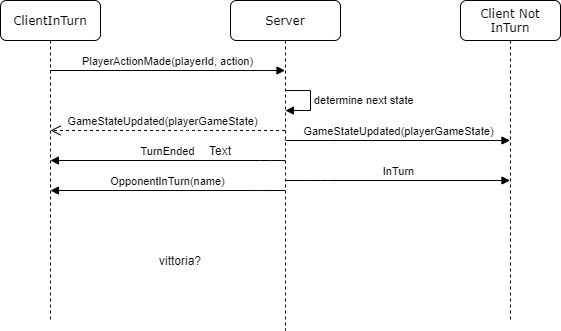
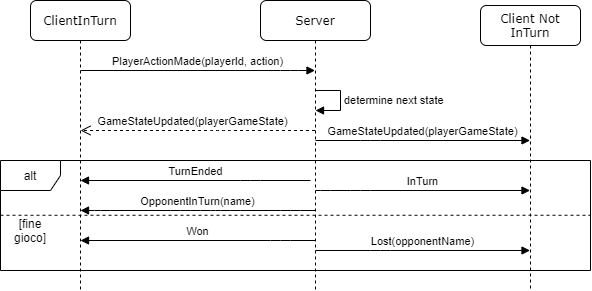
relation update

diff --git a/source/doc/design-di-dettaglio.tex b/source/doc/design-di-dettaglio.tex
@@ -19,7 +19,7 @@ Il core modella al suo interno tutte le entità del gioco Machiavelli reale, com
 Le entità di gioco sono:
 \begin{itemize}
     \item la card, corredata da tre case class: un rank (valore nominale), un seme e un colore.
-    All’interno del Rank si sono definiti tutti i possibili valori che una carta può assumere (da 1 a 13). Inoltre è stato modellato anche il caso del rank asso come 14-esimo valore, chiamato \textit{overflowAce}, per poterne effettuare la validazione qualora si trovasse dopo il Re (13-esimo valore) in una combinazione.
+    All’interno del Rank si sono definiti tutti i possibili valori che una carta può assumere (da 1 a 13). Inoltre è stato modellato anche il caso del rank asso come 14-esimo valore, chiamato \textit{overflowAce}, per poterne effettuare la validazione qualora si trovasse dopo il Re (13-esimo valore) in una combinazione. 
     All’interno della case class Suit sono stati definiti i quattro semi disponibili (Cuori, Picche, Quadri e Fiori) mentre nel Color abbiamo modellato il colore rosso e blu. Le cards e le relative case class sono contenute nel package \textit{core.cards};
     \item il Player composto da un username (necessario per essere memorizzato nel server), un id e  una mano di gioco. Tale entità è contenuta nel package \textit{core.player}.
 \end{itemize}
@@ -42,12 +42,12 @@ All’interno del package \textit{core.collections} abbiamo modellato le entità
     \item Board, è costituita da una sequenza di CardCombination valide. A livello di gioco rappresenta il tavolo nella quale sono contenute le combinazioni. Le funzioni definite sono:
     \begin{itemize}
         \item \textit{putCombination}: permette di aggiungere una combinazione valida alla Board;
-        \item \textit{pickCards}: permette di prendere delle Cards dalla Board;
+        \item \textit{pickCards}: permette di prendere delle Cards dalla Board; 
         \item \textit{putCards}: permette di aggiungere una Card alla Board;
         \item \textit{cardsInBoard}: verifica se è presente almeno una combinazione nella Board.
     \end{itemize}
 \end{itemize}
-
+\newpage
 \subsubsection{Prolog}
 Per la gestione delle regole di validazione, si è deciso di utilizzare questo linguaggio poichè è possibile esprimerle in maniera totalmente dichiarativa ed efficiente. La libreria utilizzata è TuProlog.
 \newline
@@ -146,7 +146,7 @@ Ciascun controller setta nella view il proprio Stage e istanzia la classe Servic
 \end{center}
 Come si può notare dallo schema, il controller, per notificare eventi alla view, avendo creato il relativo \textit{Stage}, richiama i metodi che questo espone.
 \newline
-Allo stesso tempo, in creazione passa anche \textit{onViewEvent()}, una funzione che viene invocata dalla view ogni qualvolta debba notificare un evento al controller.
+Allo stesso tempo, in creazione passa anche \textit{onViewEvent()}, una funzione che viene invocata dalla view ogni qualvolta debba notificare un evento al controller. 
 Questa funzione prende in input un oggetto di tipo case class/object che estende la sealed class \textit{ViewEvent}.\newline
 Questa scelta di utilizzare da una parte l’interfaccia e dall’altra un metodo a callback è dovuta al fatto che logicamente, la view può notificare al controller qualsiasi tipo di evento, e sarà il controller a decidere quale di questi gestire; al contrario la view espone solamente le funzionalità che espone nella propria interfaccia.
 \newline \newline
@@ -191,7 +191,7 @@ Ciascuna scena che estende \textit{BaseStartupFormScene} si compone di 3 parti:
 \begin{center}
     \includegraphics[scale=0.3]{create_join_lobby}
 \end{center}
-
+\newpage
 \paragraph{Game}
 \begin{center}
     \includegraphics[scale=0.4]{game}
@@ -217,7 +217,7 @@ Ciascun Pane è stato pensato in modo da racchiudere poche funzionalità simili 
     \end{itemize}
 \end{itemize}
 Ciascun \textit{Pane}, sul quale è possibile abilitare o disabilitare le azioni quando non è il turno del giocatore, estende il trait \textit{ActionGamePane}.
-\newline
+\newline 
 \begin{center}
     \includegraphics[scale=0.2]{gameViewArchitecture}
 \end{center}
@@ -241,11 +241,12 @@ Anche in questo caso, quando l’utente compie un'azione, viene generato un even
 \newline \newline Oltre a fare da collante tra Service e View, a \textit{GameController} è lasciata la responsabilità della gestione del timer durante il turno del giocatore. \newline Questo timer, per scelta a livello di design è stato lasciato solamente lato client, ed è implementato sfruttando le librerie Timer e TimerTask di java.utils. \newline \newline Espone tramite interfaccia i metodi \textit{start()} e \textit{stop()}, con i quali si avviano i due task che vengono eseguiti per ciascun turno. \newline Il primo task, chiamato tickTask, ha un periodo di 1000ms e permette di notificare un evento ogni secondo. Il secondo invece, chiamato endTask ha il compito di far scattare un evento allo scadere del tempo definito all’interno del file Constants.\newline Quando un utente inizia il proprio turno, il timer viene avviato, mentre sia quando scade, sia quando un utente passa prima del termine del turno, viene stoppato, azione con la quale si fa la \textit{cancel()} di entrambi i task e la \textit{purge()} del timer. \newline \newline
 Al timer vengono passati in costruzione la durata prevista e un listener che contiene le callback che vengono triggerate dai vari task. Tra queste c’è la \textit{onStart()}, che viene chiamata all’avvio del timer, la \textit{onEnd()}, che viene chiamata allo scadere di endTask, e la onTick() che viene invece chiamata a ogni passaggio di tickTask. \newline \newline Il controller ha anche il compito di decidere se al passaggio di turno, l’utente dovrà pescare o passare semplicemente. Per farlo si affida all’ultimo aggiornamento di stato ricevuto, facendone una copia di volta in volta, e controlla se in questo l’utente doveva pescare oppure no.
 \subsubsection{Model}
-La parte di model del client è rappresentata dai trait StartupService e GameService con tutte le strutture a loro collegate. Rappresentano il punto in cui risiede tutta la business logic del client. Sono entrambi delle interfacce che espongono tutte le funzionalità rese disponibili dall’applicazione, su cui in controller si appoggiano per eseguire tutte le operazioni risultanti dalle azioni utente effettuate attraverso l’interazione con la view. \newline Permettono quindi di astrarre ai componenti utilizzatori le modalità con cui le varie azioni vengono risolte, ad esempio decidere se risolverle in locale o in remote contattando il server.
+La parte di model del client è rappresentata dai trait StartupService e GameService con tutte le strutture a loro collegate. Rappresentano il punto in cui risiede tutta la business logic del client. Sono entrambi delle interfacce che espongono tutte le funzionalità rese disponibili dall’applicazione, su cui in controller si appoggiano per eseguire tutte le operazioni risultanti dalle azioni utente effettuate attraverso l’interazione con la view. \newline Permettono quindi di astrarre ai componenti utilizzatori le modalità con cui le varie azioni vengono risolte, ad esempio decidere se risolverle in locale o in remote contattando il server. 
 È solamente in questa parte del codice client che sono presenti riferimenti al framework akka. A differenza del server, il client non è stato modellato totalmente ad attori: questi sono stati utilizzati solo per la parte di comunicazione con il server tramite scambio di messaggi.
+\newpage
 \paragraph{StartupService}
 \begin{center}
-    \includegraphics[scale=0.5]{server-startup-service}
+    \includegraphics[scale=0.5]{startup-service}
 \end{center}
 È il componente che si occupa della gestione della lobby.
 La sua funzione primaria, essendo la lobby gestita totalmente lato server, è quella di comunicare con quest’ultimo. \newline La connessione al server viene fatta tramite tramite il metodo \textit{actorSelection} messo a disposizione dall’unica istanza dell’oggetto \textit{ActorSystem} presente nell’object \textit{ActorSystemManager}, in caso di connessione avvenuta, si ottiene il riferimento all’attore remoto \textit{serverLobbyRef} responsabile per la gestione delle lobby, che viene utilizzato per l’invio dei successivi messaggi di richiesta di aggiunta alla lobby. \newline
@@ -254,7 +255,7 @@ La decisione di comunicare con il server su due vie separate è stata fatta per 
 I risultati delle varie operazioni vengono poi notificati al controller attraverso la funzione \textit{notifyEvent} richiesta in costruzione, a cui viene passato un oggetto di tipo \textit{GameStartupEvent}.\newline Il risultato della fase di lobby è l’oggetto \textit{GameMatchInformations}, che racchiude tutte le informazioni necessarie a poter avviare la partita lato client, come l'id del giocatore e la reference all'attore remoto del server.
 \paragraph{GameService}
 \begin{center}
-    \includegraphics[scale=0.5]{server-game-service}
+    \includegraphics[scale=0.5]{game-service}
 \end{center}
 È il componente che si occupa di gestire lato client tutta la fase di gioco.
 Come il componente descritto in precedenza per la fase di lobby, anche questo consiste in un’interfaccia che espone tutti i metodi corrispondenti alle funzionalità rese disponibili dal client di gioco.\newline La sua implementazione \textit{GameServiceImpl} è poi caratterizzata da diversi elementi, ciascuno dei quali gestisce una componente specifica del gioco.\newline Il riferimento all’attore server remoto \textit{serverActorRef} utilizzato per inviare messaggi al server. \textit{ClientGameActorRef}, il riferimento all’attore locale, responsabile di ricevere i messaggi inviati dal server, con una struttura analoga a quella descritta precedentemente per la lobby.
@@ -299,7 +300,7 @@ Per fare ciò mantiene una Lobby in corrispondenza di ogni LobbyType, che rappre
 \paragraph{Modellazione delle lobby private}
 La lobby privata presenta la caratteristica di una normale lobby di avere associato un valore corrispondente al numero di giocatori tale da poter essere estratti per formare un partita.Oltre a questo, ha un codice univoco per poterla identificare univocamente tra le tante.
 PrivateLobbyService supporta la creazione di lobby private, generando un id univoco ogni volta che ne viene richiesta una nuova.
-
+\newpage
 \paragraph{Interazione con il client}
 \begin{center}
     \includegraphics[width=\textwidth]{server-diagramma-attivita-lobby}
@@ -337,7 +338,7 @@ Una volta creato dall’attore lobby, l’attore responsabile della gestione del
     \item rimane in attesa del loro messaggio di conferma Ready, contenente oltre all’id del giocatore il riferimento all’attore a cui inviare i successivi messaggi;
     \item ricevuti tutti i messaggi di conferma la partita viene inizializzata, viene generato lo stato iniziale ed inviato ai vari giocatori.Inoltre viene inviata una notifica al giocatore del turno corrente.
 \end{itemize}
-
+\newpage
 \paragraph{Comunicazione durante il turno di gioco}
 \begin{center}
     \includegraphics[width=\textwidth]{server-sequence-diagram-turno}

diff --git a/source/doc/retrospettiva.tex b/source/doc/retrospettiva.tex
@@ -61,10 +61,12 @@ Al di fuori di essi, principalmente si è pensato a:
 \end{itemize}
 
 \subsection{Commenti finali}
-Ci siamo trovati bene a lavorare con la metodologia Agile imparata a lezione in questo corso.Avere degli obiettivi precisi da portare a termine in poco tempo proporzionati alle forze del team ha aiutato a ridurre drasticamente il classico stress dovuto all’approssimarsi delle scadenze. \newline \newline Anche l’uso di Trello ha contribuito, rendendo più veloce la comunicazione all’interno del team in termini di reporting delle issues e dei job per ogni membro.\newline \newline Il nome Part-Time-Team dato al gruppo non è stato a caso, il motivo per cui l’abbiamo scelto è che 3 componenti su 4 del gruppo sono lavoratori part-time che hanno anche richiesto l’estensione del piano di studi. Non sempre siamo riusciti a dedicare lo stesso lasso di tempo durante la giornata al progetto, quindi l’uso degli strumenti sopra citati è stato più essenziale che opzionale, permettendoci di lavorare in modo indipendente gli uni dagli altri. \newline \newline La tecnologia più ostica per tutto il gruppo è stato il Prolog, dato che ha richiesto di cambiare totalmente il modo di affrontare il problema. Alcune volte, si è pensato ad usare solamente il linguaggio Scala per lo svolgimento di tutte le funzionalità sviluppate invece di Prolog, credendo di risparmiare tempo prezioso. Nonostante le difficoltà, abbiamo comunque pensato che non fosse il caso di rinunciare a tutto il lavoro già svolto.
+Ci siamo trovati bene a lavorare con la metodologia Agile imparata a lezione in questo corso. Avere degli obiettivi precisi da portare a termine in poco tempo proporzionati alle forze del team ha aiutato a ridurre drasticamente il classico stress dovuto all’approssimarsi delle scadenze. \newline \newline Anche l’uso di Trello ha contribuito, rendendo più veloce la comunicazione all’interno del team in termini di reporting delle issues e dei job per ogni membro.\newline \newline Il nome Part-Time-Team dato al gruppo non è stato a caso, il motivo per cui l’abbiamo scelto è che 3 componenti su 4 del gruppo sono lavoratori part-time che hanno anche richiesto l’estensione del piano di studi. Non sempre siamo riusciti a dedicare lo stesso lasso di tempo durante la giornata al progetto, quindi l’uso degli strumenti sopra citati è stato più essenziale che opzionale, permettendoci di lavorare in modo indipendente gli uni dagli altri. \newline \newline La tecnologia più ostica per tutto il gruppo è stato il Prolog, dato che ha richiesto di cambiare totalmente il modo di affrontare il problema. Alcune volte, si è pensato ad usare solamente il linguaggio Scala per lo svolgimento di tutte le funzionalità sviluppate invece di Prolog, credendo di risparmiare tempo prezioso. Nonostante le difficoltà, abbiamo comunque pensato che non fosse il caso di rinunciare a tutto il lavoro già svolto. 
 \paragraph{Daniele}
 Penso che partecipare a questo progetto sia stata una bellissima esperienza, sia per l’opportunità di lavorare con tecnologie che non conoscevo, sia per l’aver collaborato con dei bravissimi compagni. Penso che se una persona non conoscesse l’esistenza di queste tecnologie (prima fra tutti la CI) non le andrebbe a cercare tanto, non si sveglierebbe alla mattina pensando di inventare un sistema simile, ma una volta venutone a conoscenza, non ne potrebbe più fare a meno, proprio come è successo a me.
 \paragraph{Lorenzo}
 Partecipare a questo progetto mi ha aiutato ad approciarmi con tecnologie che fin'ora non conoscevo e soprattutto mi ha permesso di acquisire nuove abilità sull'approcio funzionale e sulla programmazione in generale. Non avendo fatto ancora un'esperienza lavorativa, partecipare a questo progetto mi ha fatto capire, seppur in minima parte, cosa significa lavorare in un team.\newline Penso di aver raggiunto l'obiettivo finale di questo corso, anche grazie all'aiuto dei membri del team. Inoltre l'esperienza mi ha permesso di conoscere nuovi amici. Li ringrazio della fiducia iniziale che mi hanno dato.
 \paragraph{Matteo}
+La realizzazione del progetto e in generale il corso di PPS è stata un'esperienza molto positiva, mi ha permesso di approfondire aspetti della programmazione funzionale e soprattuto del testing che ho poi avuto modo di applicare anche al lavoro.  
+Sicuramente il margine di miglioramento è ancora molto ampio visti i molteplici concetti toccati in un lasso di tempo così limitato, ma gli spunti sono tanti e piano piano cercherò di approfondirli al meglio uno ad uno, partendo dal libro "Clean Code" già pronto sulla mensola.
 \paragraph{Luca}

diff --git a/source/doc/implementazione.tex b/source/doc/implementazione.tex
@@ -16,7 +16,7 @@ Ho cercato anche di mantenermi il più possibile aderente allo stile di programm
 Anche nelle classi realizzate ho cercato di seguire quando possibile il modello funzionale, prediligendo l’immutabilità, tranne in quei casi in cui a fronte di un’attenta analisi, ho optato per la creazione di strutture non totalmente funzionali con uso di side effect, come nei casi di classi caratterizzate dal fatto di mantenere uno stato locale aggiornato secondo delle funzioni esposte all’esterno, come il caso di LobbyManager lato server o GameStateStore sul client.
 
 \subsection{Luca}
-Per questo progetto ho assunto il ruolo di Committente, ruolo per il quale ho in primis cercato le regole e analizzato assieme a tutti gli altri elementi del gruppo le funzionalità che la nostra applicazione avrebbe dovuto supportare. \newline \newline Il lavorare sulla parte client, in particolar modo sulla view, oltre al fatto di essere il committente del progetto, mi ha permesso di tenere sempre sotto osservazione l’effettivo rispetto dei requisiti che ci eravamo prefissati, magari richiedendo anche agli altri membri del gruppo il supporto di una funzionalità che era sfuggita durante l’implementazione degli altri moduli.
+Per questo progetto ho assunto il ruolo di Committente, ruolo per il quale ho in primis cercato le regole e analizzato assieme a tutti gli altri elementi del gruppo le funzionalità che la nostra applicazione avrebbe dovuto supportare. \newline \newline Il lavorare sulla parte client, in particolar modo sulla view, oltre al fatto di essere il committente del progetto, mi ha permesso di tenere sempre sotto osservazione l’effettivo rispetto dei requisiti che ci eravamo prefissati, magari richiedendo anche agli altri membri del gruppo il supporto di una funzionalità che era sfuggita durante l’implementazione degli altri moduli. 
 \subsubsection{Sviluppo Client - View e Controller}
 Durante lo sviluppo, invece, ho lavorato sulla parte client dell’applicazione, e dopo aver deciso di adottare il pattern MVC, ho lavorato specialmente sulle parti di View e Controller.\newline \newline In un primo momento ho valutato attentamente l’utilizzo della libreria ScalaFX, per vedere se avesse potuto portare delle difficoltà durante lo sviluppo per via di possibili funzionalità mancanti, le quali però non sono state evidenziate. \newline \newline Nello sviluppo ho sempre cercato di separare logicamente le funzionalità, i componenti della view, le parti di gioco in modo da permettere di avere una struttura modulare e ottenere delle classi più leggibili. A tal proposito ho spesso utilizzato i companion object per contenere la parte di implementazione ed utilizzare trait e classi astratte per esporre le funzionalità messe a disposizione dai vari elementi. Trait e classi astratte sono state utili anche per descrivere funzionalità e scrivere pezzi di codice comuni a più elementi di view. \newline \newline Anche per la creazione di pulsanti, labels, alerts e textFields ho deciso di utilizzare degli oggetti che contengono diversi metodi apply() a seconda di come si vuole creare quell’ elemento, e durante la scrittura del codice, la cosa si è rivelata molto utile.\newline \newline Sia per la creazione di TurnTimer che di SelectionManager, ho cercato di rendere le classi il più riutilizzabili possibile, nel primo caso avvalendomi delle callback per reagire agli eventi generati dai TimerTask, nel secondo creando una classe generica, che permetta di selezionare oggetti che implementano il trait SelectableItem, rendendolo utilizzabile anche in altri contesti.
 \newline \newline Infine, assieme a Lorenzo e Matteo abbiamo lavorato ad un refactoring della gestione degli errori che, avendo suddiviso il progetto in più moduli distinti, potevano provenire da diverse parti. I testi degli errori, di informazione, così come tutte le label, sono stati gestiti solamente lato view, così da poterli in futuro modificare, magari aggiungendo il supporto multilingua.

diff --git a/source/doc/design-architetturale.tex b/source/doc/design-architetturale.tex
@@ -1,7 +1,7 @@
 Per gestire l'ambito multiplayer è stata realizzata un’architettura \textit{Client}-\textit{Server}.
 Ogni giocatore è rappresentato dal \textit{Client} mente un unico \textit{Server} si occupa di gestire le varie connessioni con i \textit{Client} e lo stato delle partite.
 \begin{center}
-    \includegraphics[scale=0.6]{architettura3.0}
+    \includegraphics[scale=0.6]{architettura}
 \end{center}
 \subsection[Architettura]{Architettura}
 \subsubsection{Core}

diff --git a/source/doc/rel.tex b/source/doc/rel.tex
@@ -2,7 +2,7 @@
 
 \usepackage[utf8]{inputenc}
 \usepackage{graphicx}
-\usepackage[export]{adjustbox}
+\usepackage{sidecap}
 \usepackage[T1]{fontenc}
 \usepackage{hyperref}
 \hypersetup{
